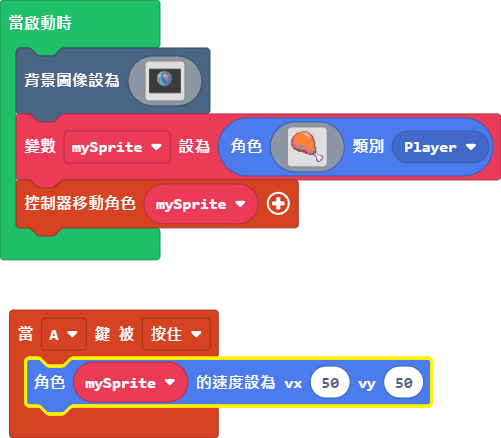
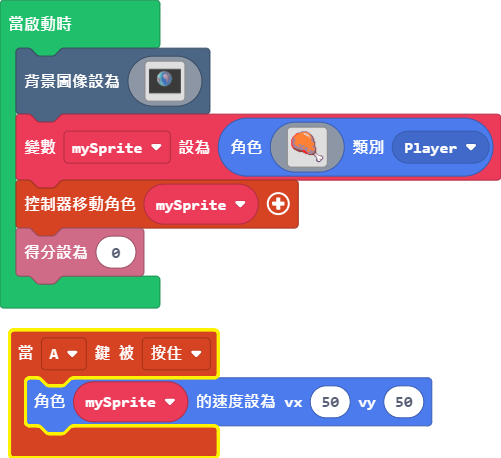
更新 main.blocks, main.ts

Changed region(s): [[0.0, 0.089, 1.0, 1.0], [0.0, 0.0297, 0.2695, 0.2078], [0.3892, 0.1484, 0.4192, 0.1781]]

diff --git a/main.ts b/main.ts
@@ -159,3 +159,4 @@ mySprite = sprites.create(img`
     ................................
     `, SpriteKind.Player)
 controller.moveSprite(mySprite)
+info.setScore(0)
